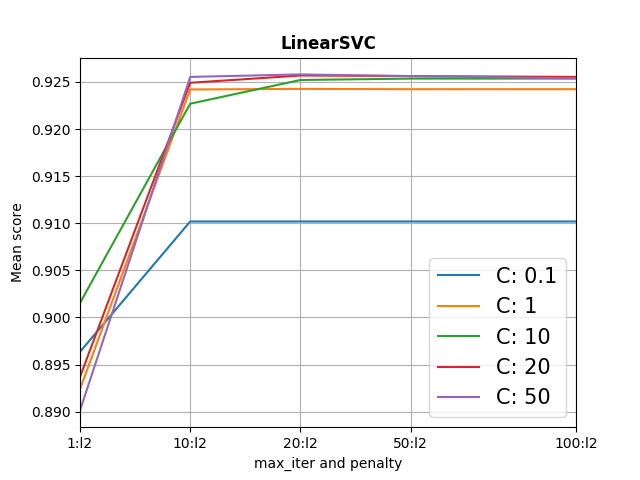
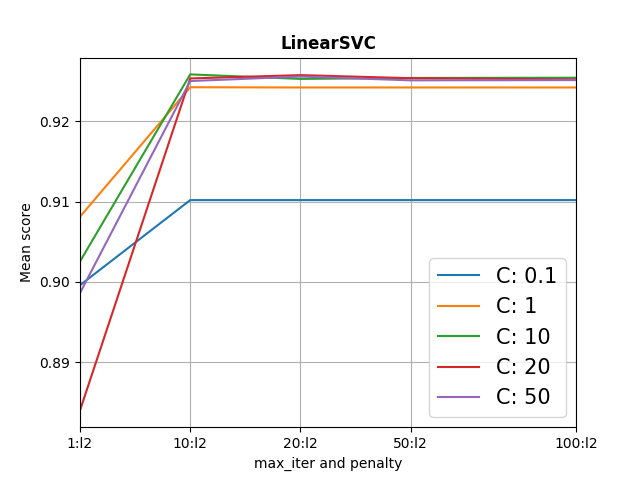
text classification

diff --git a/main.py b/main.py
@@ -42,8 +42,6 @@ class Classifier(object):
 
     def __training_result(self):
         y_true, y_pred = self.labels_test, self.estimator.predict(self.features_test)
-        cnf_matrix = confusion_matrix(y_true, y_pred)
-        plot_confusion_matrix(cnf_matrix, title='Confusion matrix from LinearSVC')
         print(( 'Accurancy: ',self.estimator.score(self.features_test,self.labels_test)))
         print((classification_report(y_true, y_pred)))
         logging.info(('Accurancy: ',self.estimator.score(self.features_test,self.labels_test)))
@@ -88,34 +86,13 @@ if __name__ == '__main__':
     features_test, labels_test = FeatureExtraction(data=features_test_loader).read_feature()
     print(('Read Feature Extraction Done! ',  str(datetime.now())))
 
-    # # KNeighbors Classifier
-    # print 'Training by KNeighbors Classifier ...'
-    # estKNeighbors = Classifier(features_train=features_train, features_test=features_test, labels_train=labels_train, labels_test=labels_test,estimator=KNeighborsClassifier(n_neighbors=3))
-    # estKNeighbors.training()
-    # estKNeighbors.save_model(filePath='trained_model/knn_model_tfidf.pk') # save Model
-    # print 'Training by KNeighbors Classifier Done !'
-    
-    # # SVM Classifier 
-    # print 'Training by SVM Classifier ...'
-    # estSVM = Classifier(features_train=features_train, features_test=features_test, labels_train=labels_train, labels_test=labels_test,estimator= LinearSVC(penalty='l2', C= 4))
-    # estSVM.training()
-    # estSVM.save_model(filePath='trained_model/svm_model.pk') # save Model
-    # print 'Training by SVM Classifier Done !'
-
-    # # RandomForest Classifier
-    # print 'Training by RandomForest Classifier ...'
-    # estRandomForest = Classifier(features_train=features_train, features_test=features_test, labels_train=labels_train, labels_test=labels_test,estimator=RandomForestClassifier())
-    # estRandomForest.training()
-    # estRandomForest.save_model(filePath='trained_model/random_forest_model.pk') # save Model
-    # print 'Training by RandomForest Classifier Done ! '
     logging.basicConfig(filename=settings.LOG_FILE, level=logging.INFO)
     logging.info(('Training by SVM classification ... ',  str(datetime.now())))
     print('Training by SVM classification ...', str(datetime.now()))
-    logging.info('\nModel: LinearSVC\nC = 50\nPenalty=\'l2\'\nMax_iter = 20')
-    # estLogistic = Classifier(features_train=features_train, features_test=features_test, labels_train=labels_train, labels_test=labels_test,estimator=LogisticRegression(penalty='l2',max_iter=20,C=30))
-    estLogistic = Classifier(features_train=features_train, features_test=features_test, labels_train=labels_train, labels_test=labels_test, estimator = LinearSVC(random_state=0, C=50, max_iter=20))
-    estLogistic.training()
-    estLogistic.save_model(filePath='trained_model/linearSVC_Bow_model.pk') # save Model
+    logging.info('\nModel: LinearSVC\nC = 10\nPenalty=\'l2\'\nMax_iter = 10')
+    estSVC = Classifier(features_train=features_train, features_test=features_test, labels_train=labels_train, labels_test=labels_test, estimator = LinearSVC(random_state=0, C=10, max_iter=10))
+    estSVC.training()
+    estSVC.save_model(filePath=settings.LINEARSVC_TFIDF_MODEL) # save Model
     print('Training by SVC Classifier Done !', str(datetime.now()))
     logging.info(('Training by SVM Done! ',  str(datetime.now())))
     

diff --git a/preProcessData.py b/preProcessData.py
@@ -100,7 +100,7 @@ if __name__ == '__main__':
     print('Reading data raw... ',  str(datetime.now()))
     json_train = DataLoader(dataPath=settings.DATA_TRAIN_PATH).get_json_train()
     FileStore(filePath=settings.DATA_TRAIN_JSON, data=json_train).store_json()
-    json_test = DataLoader(dataPath=settings.DATA_TEST_PATH).get_json_test(1000)
+    json_test = DataLoader(dataPath=settings.DATA_TEST_PATH).get_json_test(2000)
     FileStore(filePath=settings.DATA_TEST_JSON, data=json_test).store_json()
     print('Load Data to JSON Done! ', str(datetime.now()))
           

diff --git a/draw_chart/drawChart.py b/draw_chart/drawChart.py
@@ -10,7 +10,7 @@ penalty =['l2']
 Cs=[0.1,1,10,20, 50]
 X=[1,3,5,7,10]
 X_axis=["1:l2","10:l2", "20:l2", "50:l2","100:l2"]
-scores = np.load('drawChart.npy')
+scores = np.load('drawChart_1.npy')
 print(scores)
 
 
